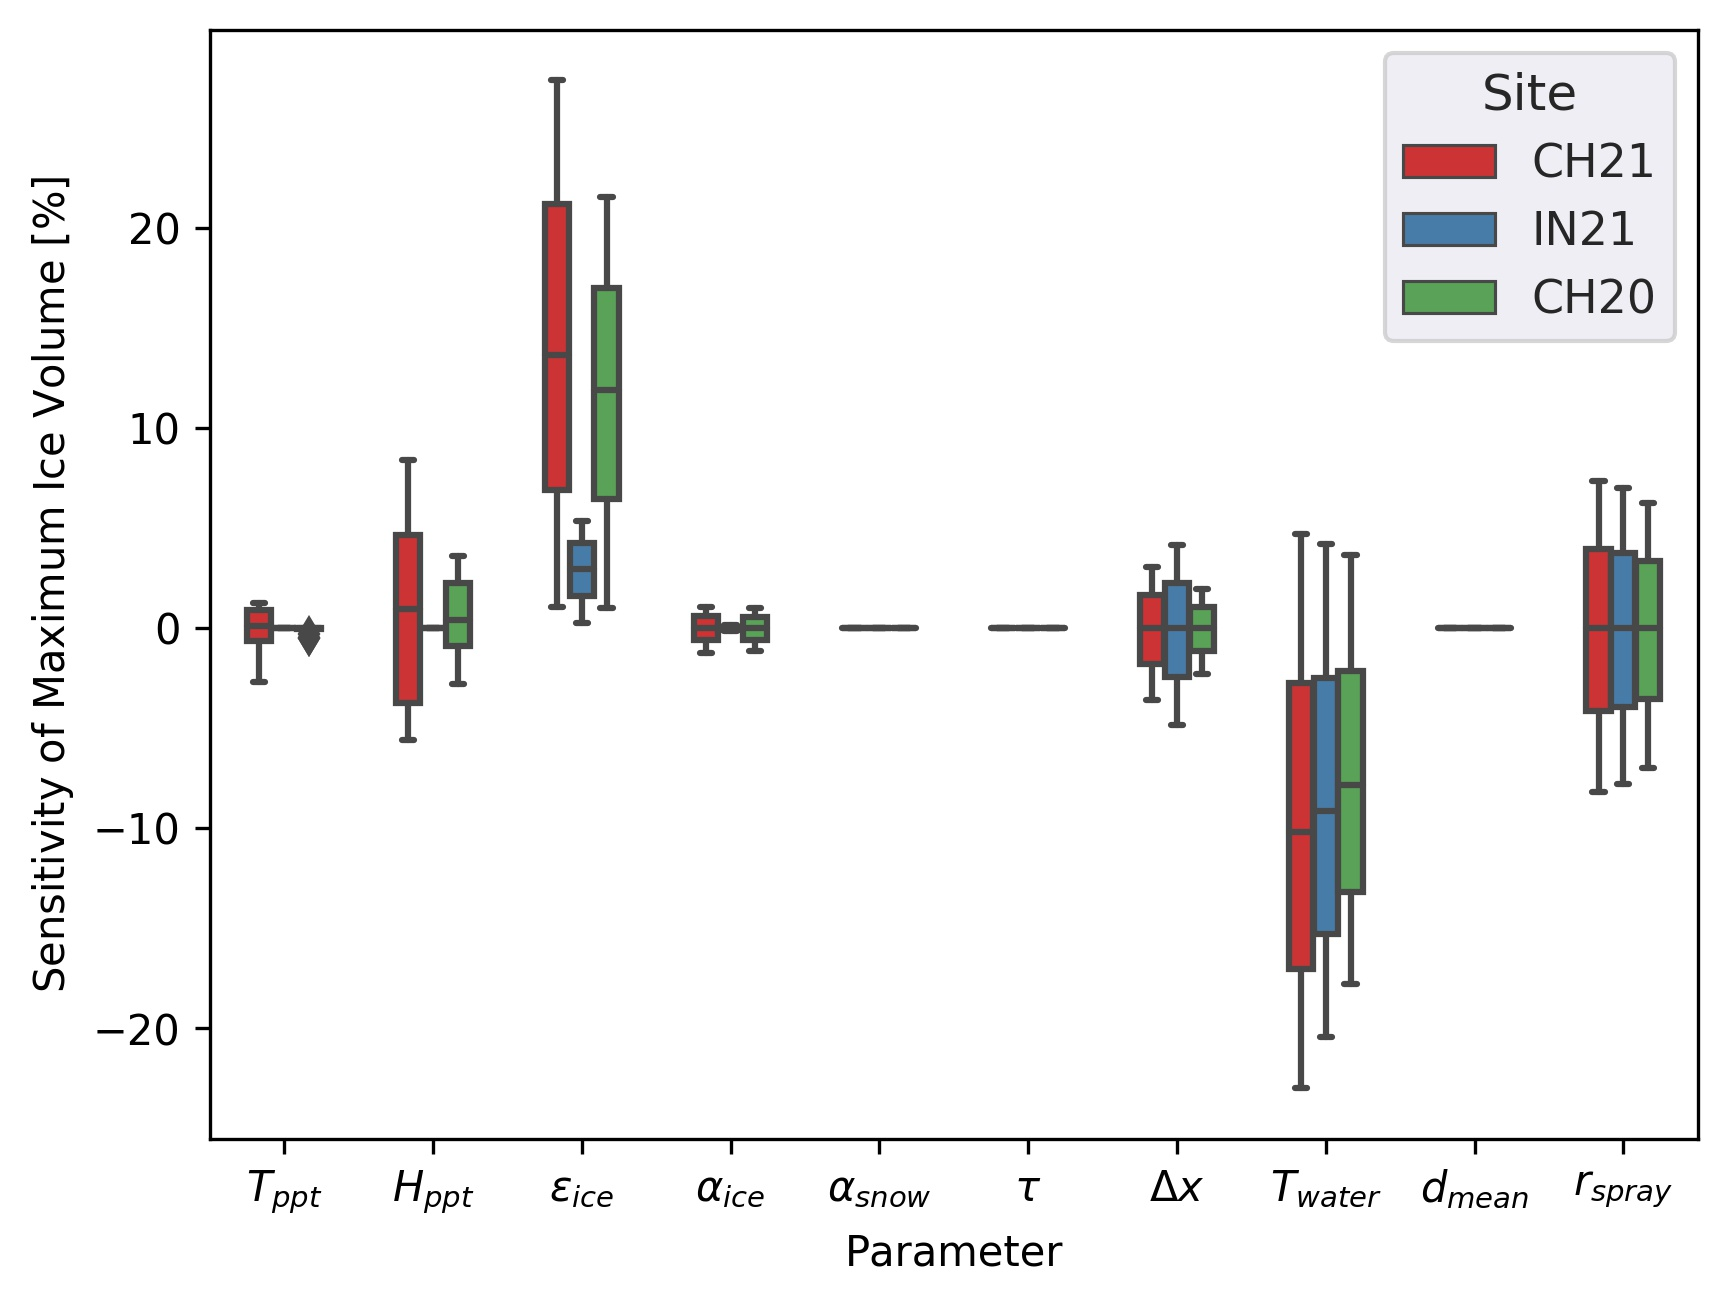
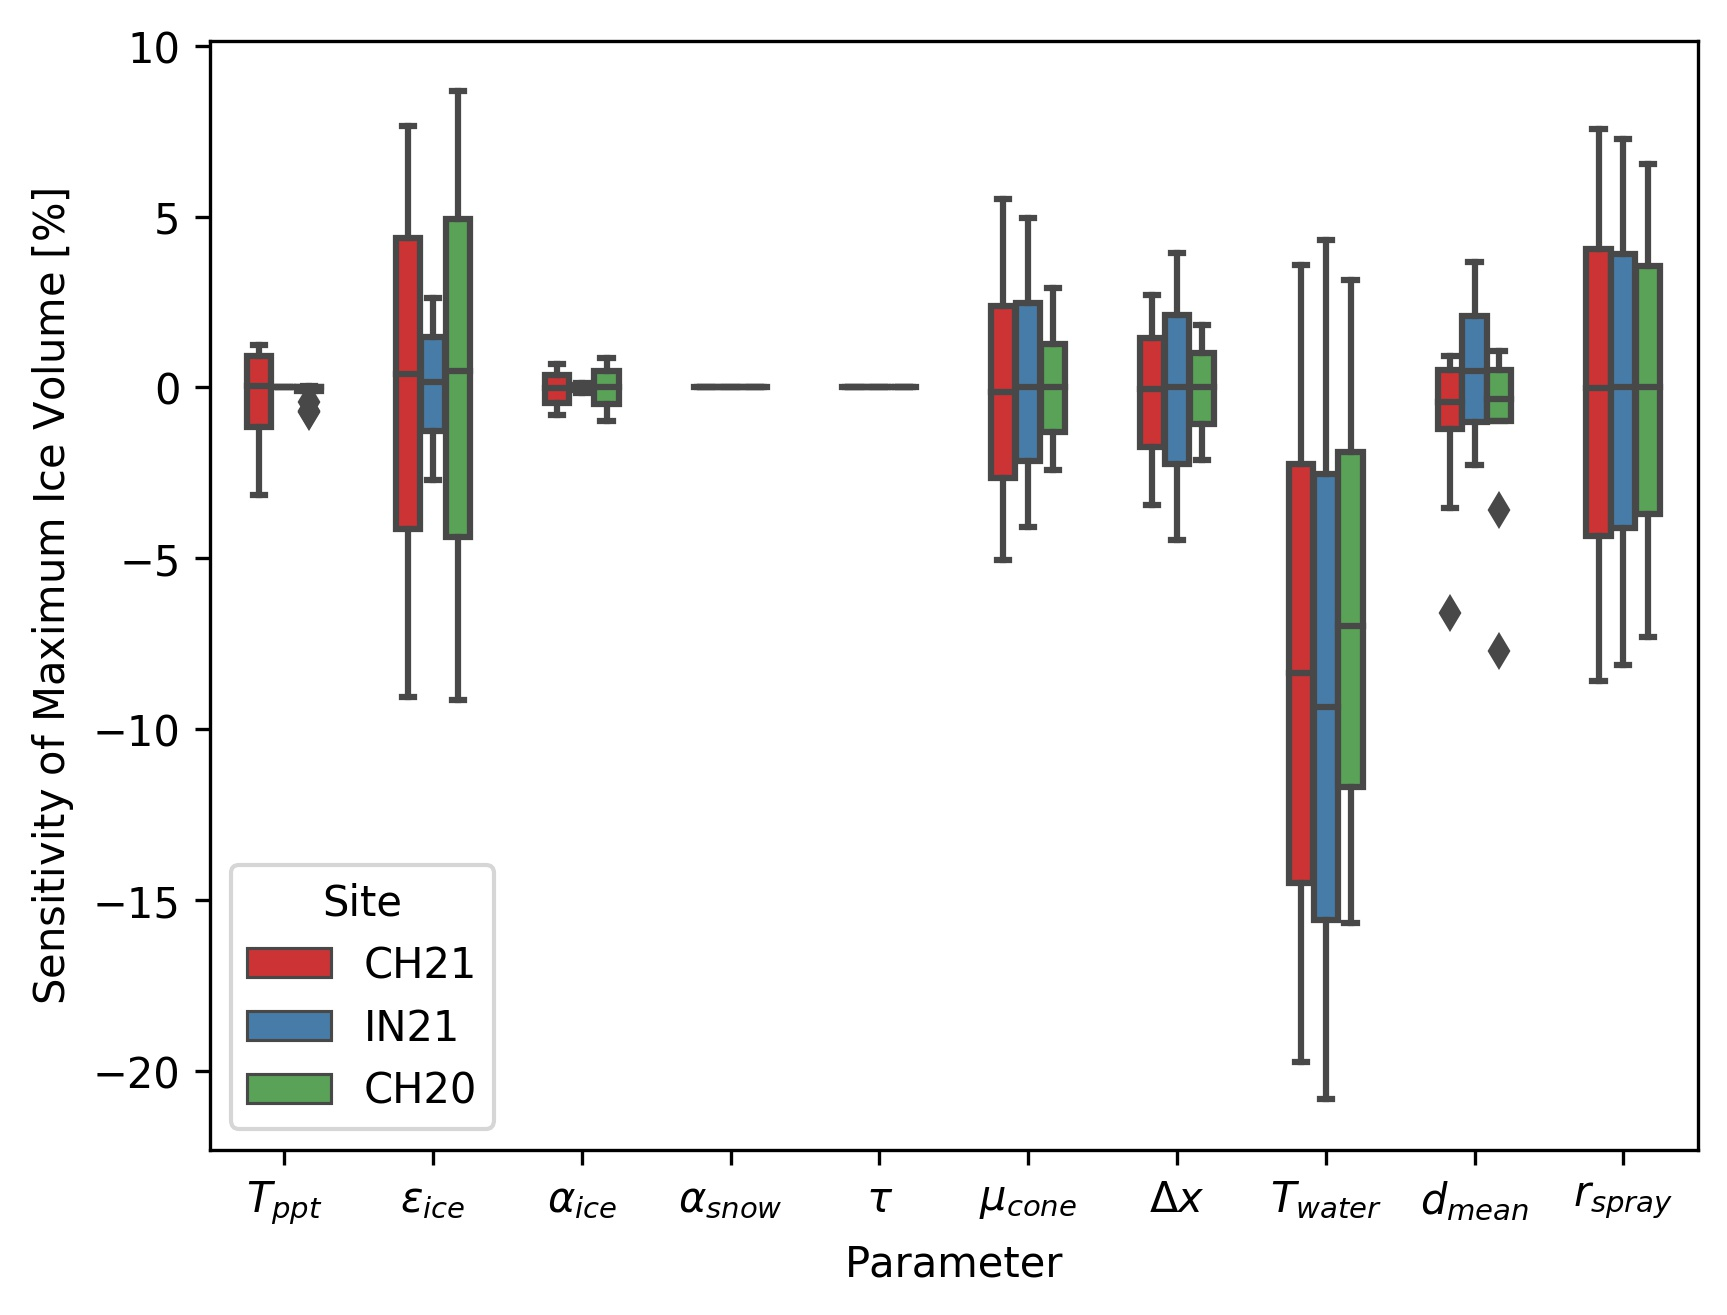
Update param table

diff --git a/air.tex b/air.tex
@@ -165,7 +165,8 @@ site.  All the ERA5 variables were therefore fitted with the meteoswiss dataset 
 For the IN site, three different weather data sources were used to log all the weather parameters required for the
 model. A temperature and humidity logger was placed adjacent to the AIR on a mast. Wind speed and pressure data was logged via a
 campbell weather station located 440 m away. Shortwave radiation data was derived from another campbell weather station
-located 15 km away. 
+located 15 km away. Unfortunately, precipitation was not logged and was assumed to be negligible. Also, the diffus
+fraction of the global shortwave radiation was also assumed to be negligible.
 
 \begin{figure} 
     \centering 
@@ -457,17 +458,17 @@ of mass is between $h_{ice}$ and $r_{ice}$. So we calculate $q_{G}$ here assumin
         Latent Heat of Fusion & $L_{f}$ & 334 $kJ\, kg^{-1}$ &    & B: \citeauthor{CuffeyPaterson_2010}\\ 
         \hline Surface Parameters & & & Range   & \\ 
         \hline Temperature threshold for precipitation & $T_{ppt}$ & 1 \degree C & $\pm$ $1\,\degree C$ & B + U: \citeauthor{FujitaAgeta_2000},\citeauthor{Zhou_2010}\\
-        Ice Emissivity        & $\epsilon_{ice}$ & 0.95 & [0.949,0.993] & B: \citeauthor{CuffeyPaterson_2010}; U:
-        \citeauthor{HORI2006486}\\
-        Ice Albedo         & $\alpha_{ice}$ & 0.35 & $\pm$ 5 \%  & B: \citeauthor{CuffeyPaterson_2010}; U: assum.   \\
+        Ice Emissivity        & $\epsilon_{ice}$ & 0.97 & 0.949-0.993 & B + U : \citeauthor{steiner_2015}\\
+        Ice Albedo         & $\alpha_{ice}$ & 0.15 & 0.01-0.35 & B + U : \citeauthor{steiner_2015} \\
         Snow Albedo        & $\alpha_{snow}$ & 0.85 & $\pm$ 5 \% & B: \citeauthor{CuffeyPaterson_2010}; U: assum.  \\
-        Albedo Decay Rate & $\tau$ & 10 days & $[1,22]\, days$ & B: \citeauthor{Schmidt_2017}; U:\citeauthor{OerlemansKnap_1998}  \\ 
-        Turbulent flux parameter & $\mu^*$ & 0.5 & $[0,1]$ & B: \citeauthor{Oerlemans_2021}; U: assum.  \\ 
+        Albedo Decay Rate & $\tau$ & 10 days & $1-22\, days$ & B: \citeauthor{Schmidt_2017}; U:\citeauthor{OerlemansKnap_1998}  \\ 
+        Surface Roughness & $z_0$ & 1 $mm$ & $1-5\, mm$ & B + U : \citeauthor{steiner_2015}\\ 
+        % Turbulent flux parameter & $\mu^*$ & 0.5 & $[0,1]$ & B: \citeauthor{Oerlemans_2021}; U: assum.  \\ 
         Surface layer thickness & $\Delta x$ & 20 $\,mm$ & $\pm$ 5 \%   & B + U: assum.\\
         \hline Fountain Parameters& & & Range   & \\ \hline 
         Spray Radius & $r_{spray}$ &  & $\pm$ 5 \%   & B: meas.; U: assum. \\
         Water temperature & $T_{water}$ & 1$\degree C$ & $[0,5]\, \degree C$   & B + U: assum. \\
-        Mean discharge & $d_{mean}$ &  & $\, l/min$   & B: meas.; U: assum. \\
+        Mean discharge & $d_{mean}$ & $\, l/min$ &    & B: meas.; U: assum. \\
         \hline 
     \end{tabularx} 
 \end{table} 
@@ -584,22 +585,33 @@ where
 M_{F}\\ 0 & \textit{ otherwise }\\ \end{array} \right. \\
  \end{equation}
 
-Considering AIRs as water reservoirs, we can quantify their water storage efficiency as follows:
+ Considering AIRs as water reservoirs, their storage efficiency ($SE$) at any time step $i$ can be defined as the
+ percentage of ice and meltwater produced as follows:
 
-\begin{equation} \textit{Storage Efficiency} = \frac{M_{water}+M_{ice}}{(M_F+M_{ppt}+M_{dep})} \cdot 100 \end{equation}
+\begin{equation} \textit{SE}^i = \frac{M_{water}^i+M_{ice}^i}{(M_F^i+M_{ppt}^i+M_{dep}^i)} \cdot 100 \end{equation}
+
 
 \section{Model Results} 
+The storage efficiency of CH21, IN21 and CH20 AIR were $20\%$, $20\%$ and $20\%$ respectively. The low SE is a product
+of the high  fountain water losses ( $\frac{M_{runoff}}{M_{input}}> 80 \%$ ) in all the AIR. This indicates that just
+decreasing the mean fountain discharge could have significantly increased water storage efficiency. As Fig.
+\ref{fig:freeze_rate} shows CH21, IN21 and CH20 had a maximum freezing rate of just 7.5 $l/min$, 18 $l/min$ and 6 $l/min$
+respectively compared to the 7.5 $l/min$, 60 $l/min$ and 7.5 $l/min$ of mean fountain discharge they were provided with.
 
-The model results for all the three AIR are presented in a two step manner. In the first step, we analyse the results of
-the CH21 AIR to understand the environmental influences involved in its evolution. Then in a second step, we compare it
-with the rest of the two AIR.
+\begin{figure} \begin{center} \includegraphics[width=\linewidth]{Figures/freeze_rate.jpg} \end{center}
+\caption{ Distribution of freezing rate for all the AIR } \label{fig:freeze_rate} \end{figure}
 
-\subsection{CH21 AIR} 
-The model was forced with meteorological data from $22^{nd}$ November to $10^{th}$ May 2021 (Fig.
-\ref{fig:input}) and various parameters (see Table \ref{tab:parameters}) to calculate the mass and energy balance of
-the CH21 AIR.
+% To understand the environmental influences associated with this growth rate, we 
+   
+% The model results for all the three AIR are presented in a two step manner. In the first step, we analyse the results of
+% the CH21 AIR to understand the environmental influences involved in its evolution. Then in a second step, we compare it
+% with the rest of the two AIR.
 
-\subsubsection{Energy and mass balance calculation}
+% \subsection{CH21 AIR} 
+% The model was forced with meteorological data from $22^{nd}$ November to $10^{th}$ May 2021 (Fig.  \ref{fig:input}) and
+% various parameters (see Table \ref{tab:parameters}) to calculate the mass and energy balance of the CH21 AIR.
+
+\subsubsection{Mass and energy balance calculation}
 
 \begin{figure} \begin{center} \includegraphics[width=\linewidth]{Figures/Model_Output.jpg} \end{center}
 \caption{(a) Energy and (b) mass flux components of the CH21 AIR in daily time steps.  $q_{SW}$ is the
@@ -619,7 +631,8 @@ the CH21 AIR.
 \label{fig:derived} 
 \end{figure}
   
-Daily averages of some components of the energy balance are shown in Fig.  \ref{fig:EB} (b). On average during the
+
+Daily averages of all the components of the energy balance are shown in Fig.  \ref{fig:EB} (b). On average during the
 experiment duration, the total energy balance was almost zero. Net shortwave radiation (35 $Wm^{-2}$), sensible (41
 $Wm^{-2}$) and latent heat flux (2 $Wm^{-2}$) with a mostly positive flux towards the surface of the icestupa were
 compensated by the net longwave radiation (- 47 $Wm^{-2}$), the fountain water heat flux (- 13 $Wm^{-2}$) and the
